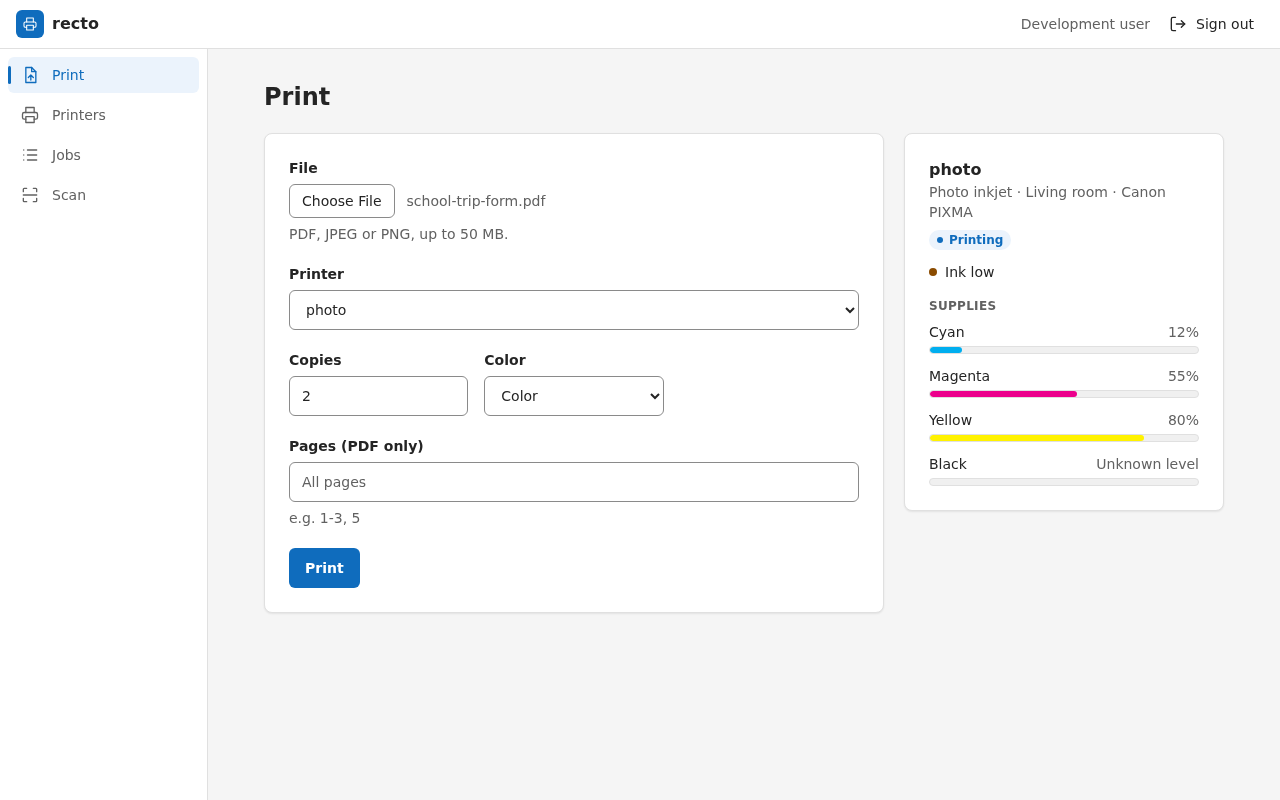
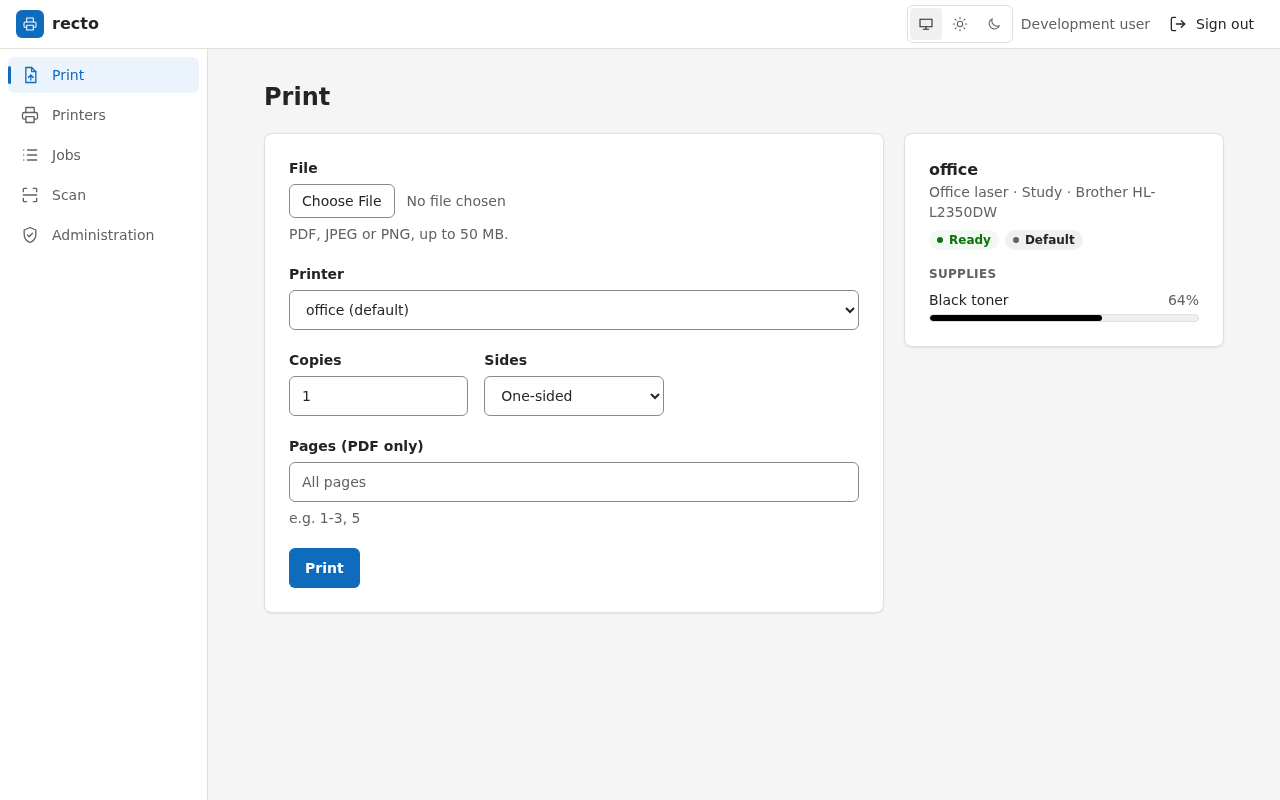
docs: describe the service worker, public addresses and branding
Lists the public addresses correctly, describes the network-first scripts and the offline page, adds branding, theme and app bullets, the restart note for mounted brand files, the recto_theme cookie, the proxy error page note, and refreshes the screenshots now that the header has the theme switch. The scan screenshots are unchanged.

diff --git a/docs/src/how-to/brand.md b/docs/src/how-to/brand.md
@@ -58,7 +58,9 @@ The files must be readable by user 65532, which recto runs as: `chmod a+r brand/
 
 Without an icon, recto draws its own in your color.
 
-recto reads the files once, at startup: after replacing one, restart recto.
+recto reads the files once, at startup: after replacing one, restart recto. When only a mounted
+file changed, `docker compose up -d` does not recreate the container, so run
+`docker compose restart recto`.
 
 ## 3. Restart
 
@@ -72,7 +74,7 @@ recto checks the settings when it starts and stops with a message naming the set
 wrong, rather than showing a broken page. The most common is a color that is too light:
 
 ```text
-recto: RECTO_BRAND_COLOR #ffff00 gives white button text a contrast of 1.07:1; it needs 4.5:1. Choose a darker colour.
+recto: RECTO_BRAND_COLOR #ffff00 gives white button text a contrast of 1.07:1; it needs 4.5:1. Choose a darker color.
 ```
 
 Buttons have white text on the color, and text needs a contrast of at least 4.5:1 with its

diff --git a/docs/src/explanation/architecture.md b/docs/src/explanation/architecture.md
@@ -54,10 +54,11 @@ piece of the page: the print form (to show only the options of the chosen printe
 oversized files), the job list (to refresh itself), and the whole scan page (preview, area
 selection and results).
 
-Installing recto as an app adds a small service worker. It keeps the interface's scripts, styles
-and brand images for faster loads, and an offline page it shows when the server cannot be
-reached. Pages themselves always come from the server. Its cache carries the recto version, so
-an upgrade replaces it.
+Installing recto as an app adds a small service worker. It keeps the interface's scripts and
+styles to use when the server cannot be reached (it always asks the server first), brand images
+for faster loads, and an offline page it shows when the server cannot be reached. Pages
+themselves always come from the server. Its cache carries the recto version and a fingerprint of
+the brand, so an upgrade or a new brand replaces it.
 
 ## State
 

diff --git a/docs/src/explanation/security.md b/docs/src/explanation/security.md
@@ -104,8 +104,9 @@ checked it is a `#rrggbb` value, and the name is escaped like any other text.
 ## The service worker
 
 The service worker of the installed app caches only the interface's scripts and styles
-(`/pkg/`), the brand images (`/brand/`) and the offline page. It never stores pages, scans,
-print or account responses: for everything else it leaves the request to the browser, as if no
+(`/pkg/`, fetched from the server first and kept only as a fallback), the brand images
+(`/brand/`) and the offline page, which it fetches without cookies so it holds no user's data. It
+never stores pages, scans, print or account responses: for everything else it leaves the request to the browser, as if no
 worker existed. The manifest and the worker are public because browsers fetch them without
 cookies, and they hold nothing private: a name, a color, icons and a few lines of script.
 

diff --git a/docs/src/reference/endpoints.md b/docs/src/reference/endpoints.md
@@ -1,7 +1,8 @@
 # Pages and endpoints
 
-Every address except `/health`, the sign-in addresses and the interface's static files requires a
-signed-in user. A page requested without a session redirects to `/sign-in?next=<path>`, which
+Every address requires a signed-in user except `/health`, the sign-in addresses (`/sign-in`,
+`/auth/*`, `/no-access`), `POST /theme`, `/brand/*`, `/manifest.webmanifest`, `/sw.js`,
+`/pwa.js`, `/offline` and the interface's static files. A page requested without a session redirects to `/sign-in?next=<path>`, which
 brings the person back after signing in; forms, downloads and server functions answer `401`
 instead. A single sign-on user without the required claim, or disabled, is sent to `/no-access`.
 

diff --git a/docs/src/introduction.md b/docs/src/introduction.md
@@ -30,6 +30,9 @@ with no drivers to install on each device.
   Connect provider (Zitadel, Keycloak, Authentik and others), optionally only those with a given
   role or group. Administrators create the local accounts, reset passwords and disable users from
   the **Administration** page.
+- **Brands** itself: the operator sets the name, accent color, logo and icon.
+- **Follows your theme**: light, dark or the device's setting, with a switch in every page.
+- **Installs as an app** on phones and computers, with an offline page.
 
 It runs as one container next to a CUPS server, configured with environment variables only. Its
 users and sessions live in a SQLite file on a volume, or in PostgreSQL.

diff --git a/README.md b/README.md
@@ -65,6 +65,8 @@ Authentik and others), or both.
   **administrators** who also reset passwords and disable users from the web page.
 - **Single sign-on** with any OpenID Connect provider, optionally limited to a role or group, with
   administrators and groups read from the provider's claims.
+- **Your brand**: set the name, accent color, logo and icon; each person picks light, dark or
+  the device's theme.
 - **One small container**, configured with environment variables only, running as non-root with a
   read-only file system, for amd64 and arm64. Accounts and sessions live in a **SQLite** file on a
   volume, or in **PostgreSQL**; `recto backup` copies SQLite while it runs.

diff --git a/docs/src/reference/command-line.md b/docs/src/reference/command-line.md
@@ -60,8 +60,9 @@ option given on the command line wins over its variable.
 | `--brand-logo <FILE>` | `RECTO_BRAND_LOGO` |
 | `--brand-icon <FILE>` | `RECTO_BRAND_ICON` |
 
-Exit status: `0` after a clean shutdown, `1` when it cannot start (a brand setting or file is refused,
-or the database cannot be opened) or stops on an error, `2` for invalid settings (with a message naming the setting).
+Exit status: `0` after a clean shutdown, `1` when it cannot start (a brand setting or file is
+refused, or the database cannot be opened) or stops on an error, `2` for invalid settings (with
+a message naming the setting).
 
 ## recto healthcheck
 

diff --git a/docs/src/reference/accounts.md b/docs/src/reference/accounts.md
@@ -123,7 +123,8 @@ again lets them sign in; it does not bring their sessions back.
 
 A sign-in starts a session, stored in the database, so restarts and upgrades do not sign anyone
 out. The `recto_session` cookie holds only the session's random identifier. It is `HttpOnly`,
-`SameSite=Lax`, and `Secure` when `RECTO_PUBLIC_URL` starts with `https://`.
+`SameSite=Lax`, and `Secure` when `RECTO_PUBLIC_URL` starts with `https://`. The only other
+cookie is `recto_theme`, which holds the chosen theme and nothing else.
 
 A session ends:
 

diff --git a/docs/src/SUMMARY.md b/docs/src/SUMMARY.md
@@ -9,6 +9,7 @@
 # How-to guides
 
 - [Install recto](how-to/install.md)
+- [Install recto as an app](how-to/install-app.md)
 - [Manage users and administrators](how-to/manage-users.md)
 - [Set up single sign-on](how-to/sign-in.md)
 - [Let only some people in](how-to/restrict-access.md)
@@ -22,7 +23,6 @@
 - [Back up and restore](how-to/back-up.md)
 - [Upgrade](how-to/upgrade.md)
 - [Troubleshoot](how-to/troubleshoot.md)
-- [Install recto as an app](how-to/install-app.md)
 - [Develop and contribute](how-to/develop.md)
 
 # Reference

diff --git a/docs/src/how-to/install-app.md b/docs/src/how-to/install-app.md
@@ -28,7 +28,8 @@ a reverse proxy with a certificate first (see [Run behind a reverse proxy](rever
 ## What works offline
 
 Only a page saying you are offline, with a link to try again. Printing and scanning need your
-server, so recto shows no pages from memory.
+server, so recto shows no pages from memory. Behind a reverse proxy, when recto itself is down,
+the proxy's error page shows rather than the offline page.
 
 ## Updates
 
